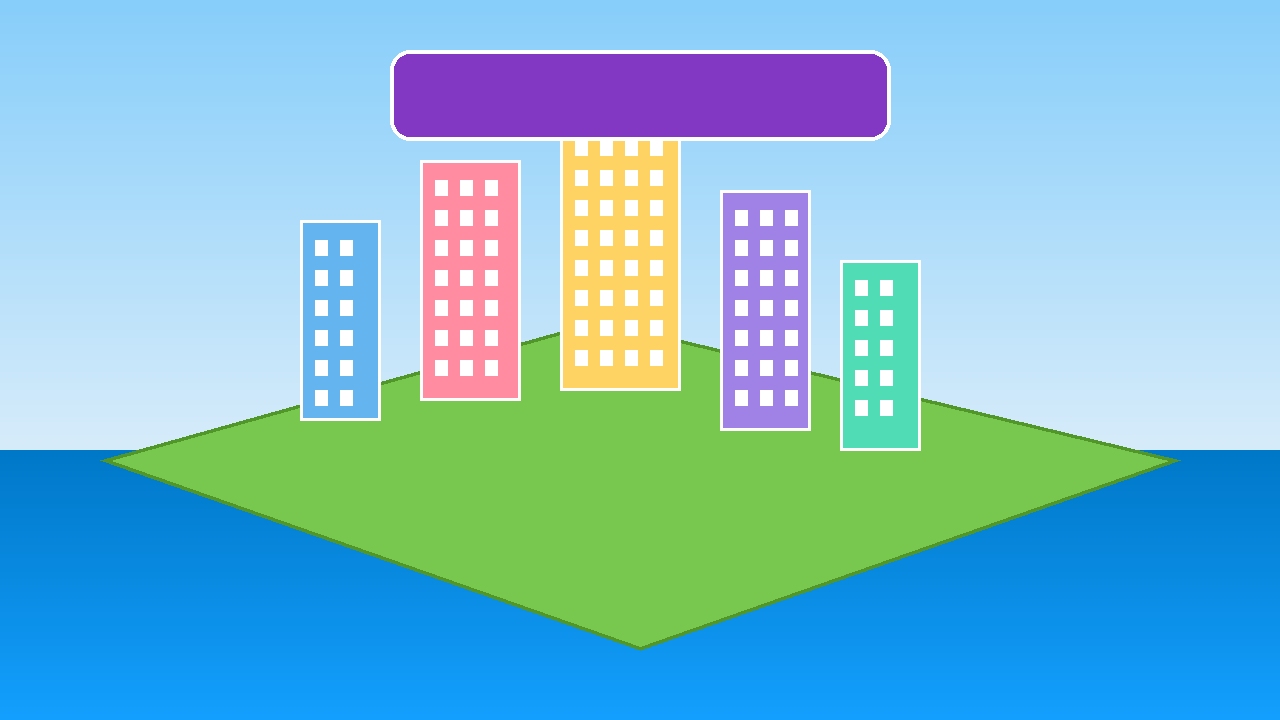
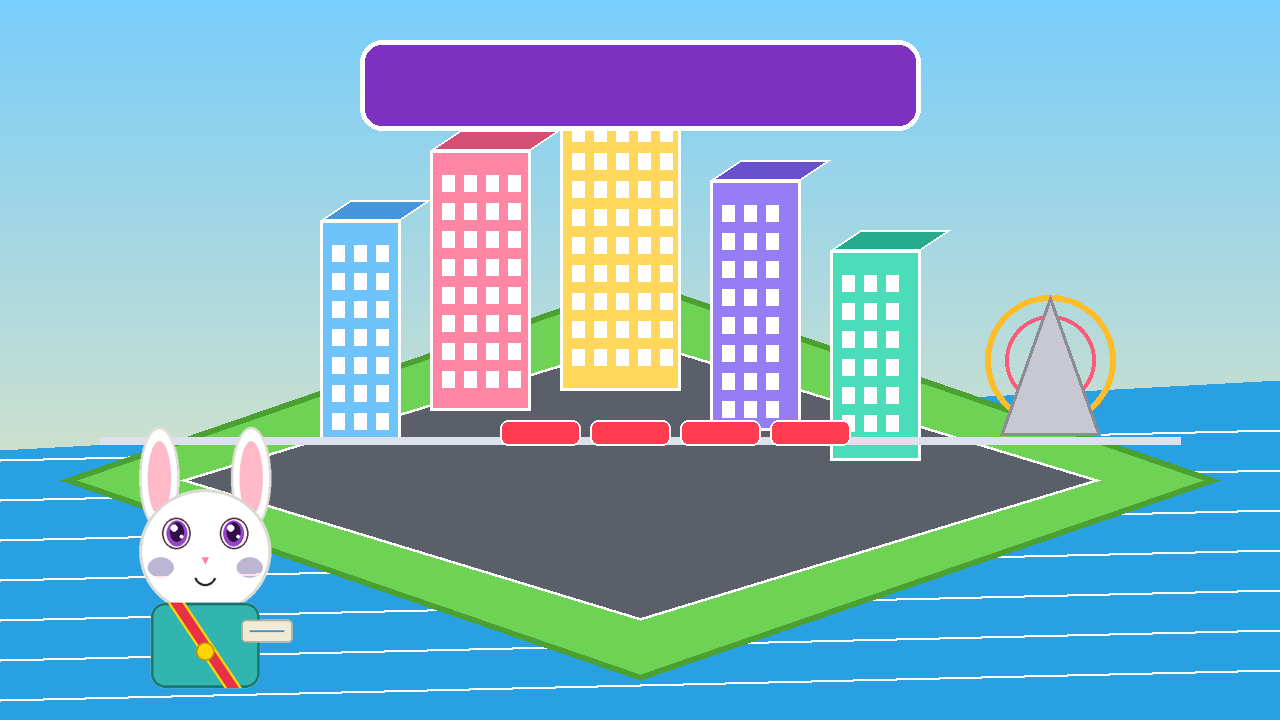
feat: detailed human and pet character rosters for Cooking Hero, Nut&Bolt, and HappyCity

diff --git a/src/data/gamesData.ts b/src/data/gamesData.ts
@@ -446,8 +446,8 @@ export const GAMES_CATALOG: GameItem[] = [
     releaseQuarter: "Q3 2027",
     engine: "Cocos Creator 3.8 (TypeScript)",
     platforms: ["iOS", "Android", "Web"],
-    description: "Cook international delicacies across Tokyo sushi bars, Parisian patisseries, and New York food trucks under time-management pressure.",
-    usp: "Fast-paced tap-and-serve combos with kitchen gadget upgrades and cute animal diners.",
+    description: "Cook international delicacies across Tokyo sushi bars, Parisian patisseries, and New York food trucks with Chef Leo and his sous-chef kitten Basil under time-management excitement.",
+    usp: "Fast-paced tap-and-serve combos with kitchen gadget upgrades, customer patience management, and cute animal diners.",
     rating: 4.8,
     players: "Chef Rush",
     coverImage: "/images/game_cooking_hero.png",
@@ -458,18 +458,26 @@ export const GAMES_CATALOG: GameItem[] = [
     featured: false,
     characters: [
       {
-        name: "Chef Bruno",
-        role: "Executive Pastry & Grill Chef",
+        name: "Chef Leo (Human)",
+        role: "Executive Master Chef & Patissier",
+        portrait: "/images/character_mimo_cat.png",
+        personality: "Enthusiastic French-Italian culinary prodigy with a curly mustache, tall white toque, and red neckerchief.",
+        signatureAbility: "Frenzy Sizzle (Instantly completes all active stove orders)",
+        activityQuote: "Bon Appétit! Three gourmet burgers and hot ramen on the pass!"
+      },
+      {
+        name: "Basil the Kitten (Pet)",
+        role: "Sous-Chef & Ingredient Inspector",
         portrait: "/images/character_baby_dragon.png",
-        personality: "Passionate culinarian who treats every burger and ramen bowl like a work of art.",
-        signatureAbility: "Frenzy Grill (Instantly cooks all dishes on the stove)",
-        activityQuote: "Order up! Three gourmet double burgers with golden cheddar!"
+        personality: "Curious white calico kitten wearing a mini chef bandana who rings the service bell.",
+        signatureAbility: "Golden Garnish (+25% bonus coin tip on served orders)",
+        activityQuote: "Meow! The sushi rice is seasoned to perfection, Chef!"
       }
     ],
     activities: [
       {
-        title: "High-Speed Kitchen Rush",
-        description: "Sizzle patties, roll sushi, and serve hungry animal guests before their patience timers run out.",
+        title: "High-Speed Sizzling Kitchen Rush",
+        description: "Flip gourmet beef patties, roll fresh salmon nigiri, and simmer tonkotsu ramen while managing customer patience timers.",
         image: "/images/game_cooking_hero.png"
       }
     ]
@@ -485,8 +493,8 @@ export const GAMES_CATALOG: GameItem[] = [
     releaseQuarter: "Q3 2027",
     engine: "Unity 6 LTS (C# URP)",
     platforms: ["iOS", "Android"],
-    description: "Unscrew wooden planks and metal bars in correct sequence to release trapped cute pets and restore animal shelters.",
-    usp: "Brain-teasing spatial physics puzzles paired with rewarding animal rescue meta-progression.",
+    description: "Unscrew layered wooden planks and colored metal bolts in correct sequence to release trapped cute puppies and kittens and restore animal rescue sanctuaries.",
+    usp: "Brain-teasing spatial physics puzzles paired with rewarding animal rescue meta-progression and realistic wooden tactile sounds.",
     rating: 4.7,
     players: "Physics Puzzle",
     coverImage: "/images/game_nut_and_bolt.png",
@@ -497,18 +505,26 @@ export const GAMES_CATALOG: GameItem[] = [
     featured: false,
     characters: [
       {
-        name: "Rusty the Rescue Bot",
-        role: "Mechanical Tool Specialist",
+        name: "Emma the Inventor (Human)",
+        role: "Master Engineer & Animal Rescuer",
         portrait: "/images/character_baby_dragon.png",
-        personality: "Clever, precise, carries magnetic screwdrivers and loves solving knotty spatial puzzles.",
-        signatureAbility: "Magnetic Wrench (Unscrews any stubborn bolt immediately)",
-        activityQuote: "Check the gravity angle! Unscrew the blue bolt first!"
+        personality: "Clever, energetic teenage mechanic in denim overalls, toolbelt, and yellow safety goggles on her forehead.",
+        signatureAbility: "Magnetic Wrench (Instantly unscrews any stuck or locked bolt)",
+        activityQuote: "Hold on little buddy! Check the gravity angle and unscrew the blue bolt first!"
+      },
+      {
+        name: "Milo the Golden Pup (Pet)",
+        role: "Rescue Sanctuary Mascot",
+        portrait: "/images/character_mimo_cat.png",
+        personality: "Fluffy, wide-eyed golden retriever puppy who gives joyful tail wags when freed from puzzle cages.",
+        signatureAbility: "Joyful Bark (Reveals the next optimal unscrewing move)",
+        activityQuote: "Woof! Thank you Emma! Let's go help the kittens next!"
       }
     ],
     activities: [
       {
         title: "Tactile Wood & Metal Screw Puzzles",
-        description: "Carefully unscrew layered wooden bars in sequence to rescue cute kittens and puppies.",
+        description: "Carefully remove threaded metallic screws in sequential order so wooden planks drop under gravity, opening cages for trapped pets.",
         image: "/images/game_nut_and_bolt.png"
       }
     ]
@@ -524,8 +540,8 @@ export const GAMES_CATALOG: GameItem[] = [
     releaseQuarter: "Q4 2027",
     engine: "Unity 6 LTS (C# URP)",
     platforms: ["iOS", "Android", "Web"],
-    description: "Build, zone, and customize a bustling 3D coastal metropolis with amusement parks, bullet trains, and joyful citizens.",
-    usp: "Sandbox creative freedom paired with light tycoon trade routes and cooperative mayor clubs.",
+    description: "Build, zone, and customize a bustling 3D coastal metropolis with amusement parks, bullet trains, high-rise eco-towers, and joyful citizens under Mayor Penelope and her corgi mascot Sparky.",
+    usp: "Sandbox creative freedom paired with light tycoon trade routes, transit planning, and cooperative mayor clubs.",
     rating: 4.9,
     players: "City Builder",
     coverImage: "/images/game_happy_city.png",
@@ -536,18 +552,26 @@ export const GAMES_CATALOG: GameItem[] = [
     featured: false,
     characters: [
       {
-        name: "Mayor Penelope",
+        name: "Mayor Penelope (Human)",
         role: "Metropolis Chief Architect & Mayor",
         portrait: "/images/character_mimo_cat.png",
-        personality: "Visionary city planner who dreams of green parks, bullet trains, and joyful neighborhoods.",
-        signatureAbility: "Metro Blueprint (Boosts city tax revenue and citizen happiness)",
-        activityQuote: "The coastal express is running on time! Let's build the new Ferris wheel park!"
+        personality: "Visionary young city planner in a pastel teal blazer, carrying architectural blueprints and tablet.",
+        signatureAbility: "Grand Blueprint (Boosts city tax revenue and unlocks mega Ferris wheel landmarks)",
+        activityQuote: "The coastal express is running smoothly! Time to break ground on the seaside theme park!"
+      },
+      {
+        name: "Sparky the Corgi (Pet)",
+        role: "Construction Inspector Mascot",
+        portrait: "/images/character_baby_dragon.png",
+        personality: "Energetic corgi wearing a tiny yellow safety hardhat and high-visibility orange vest.",
+        signatureAbility: "Safety Patrol (Reduces building construction timers by 30%)",
+        activityQuote: "Arf arf! The foundation is solid and ready for the new skyscraper!"
       }
     ],
     activities: [
       {
-        title: "3D Coastal Metropolis Planning",
-        description: "Zone colorful skyscrapers, elevated transit rail networks, and amusement parks along the sunny bay.",
+        title: "3D Coastal Metropolis Master Planning",
+        description: "Zone colorful modern skyscrapers, elevated high-speed monorail transit networks, and sunny boardwalk piers along the bay.",
         image: "/images/game_happy_city.png"
       }
     ]
